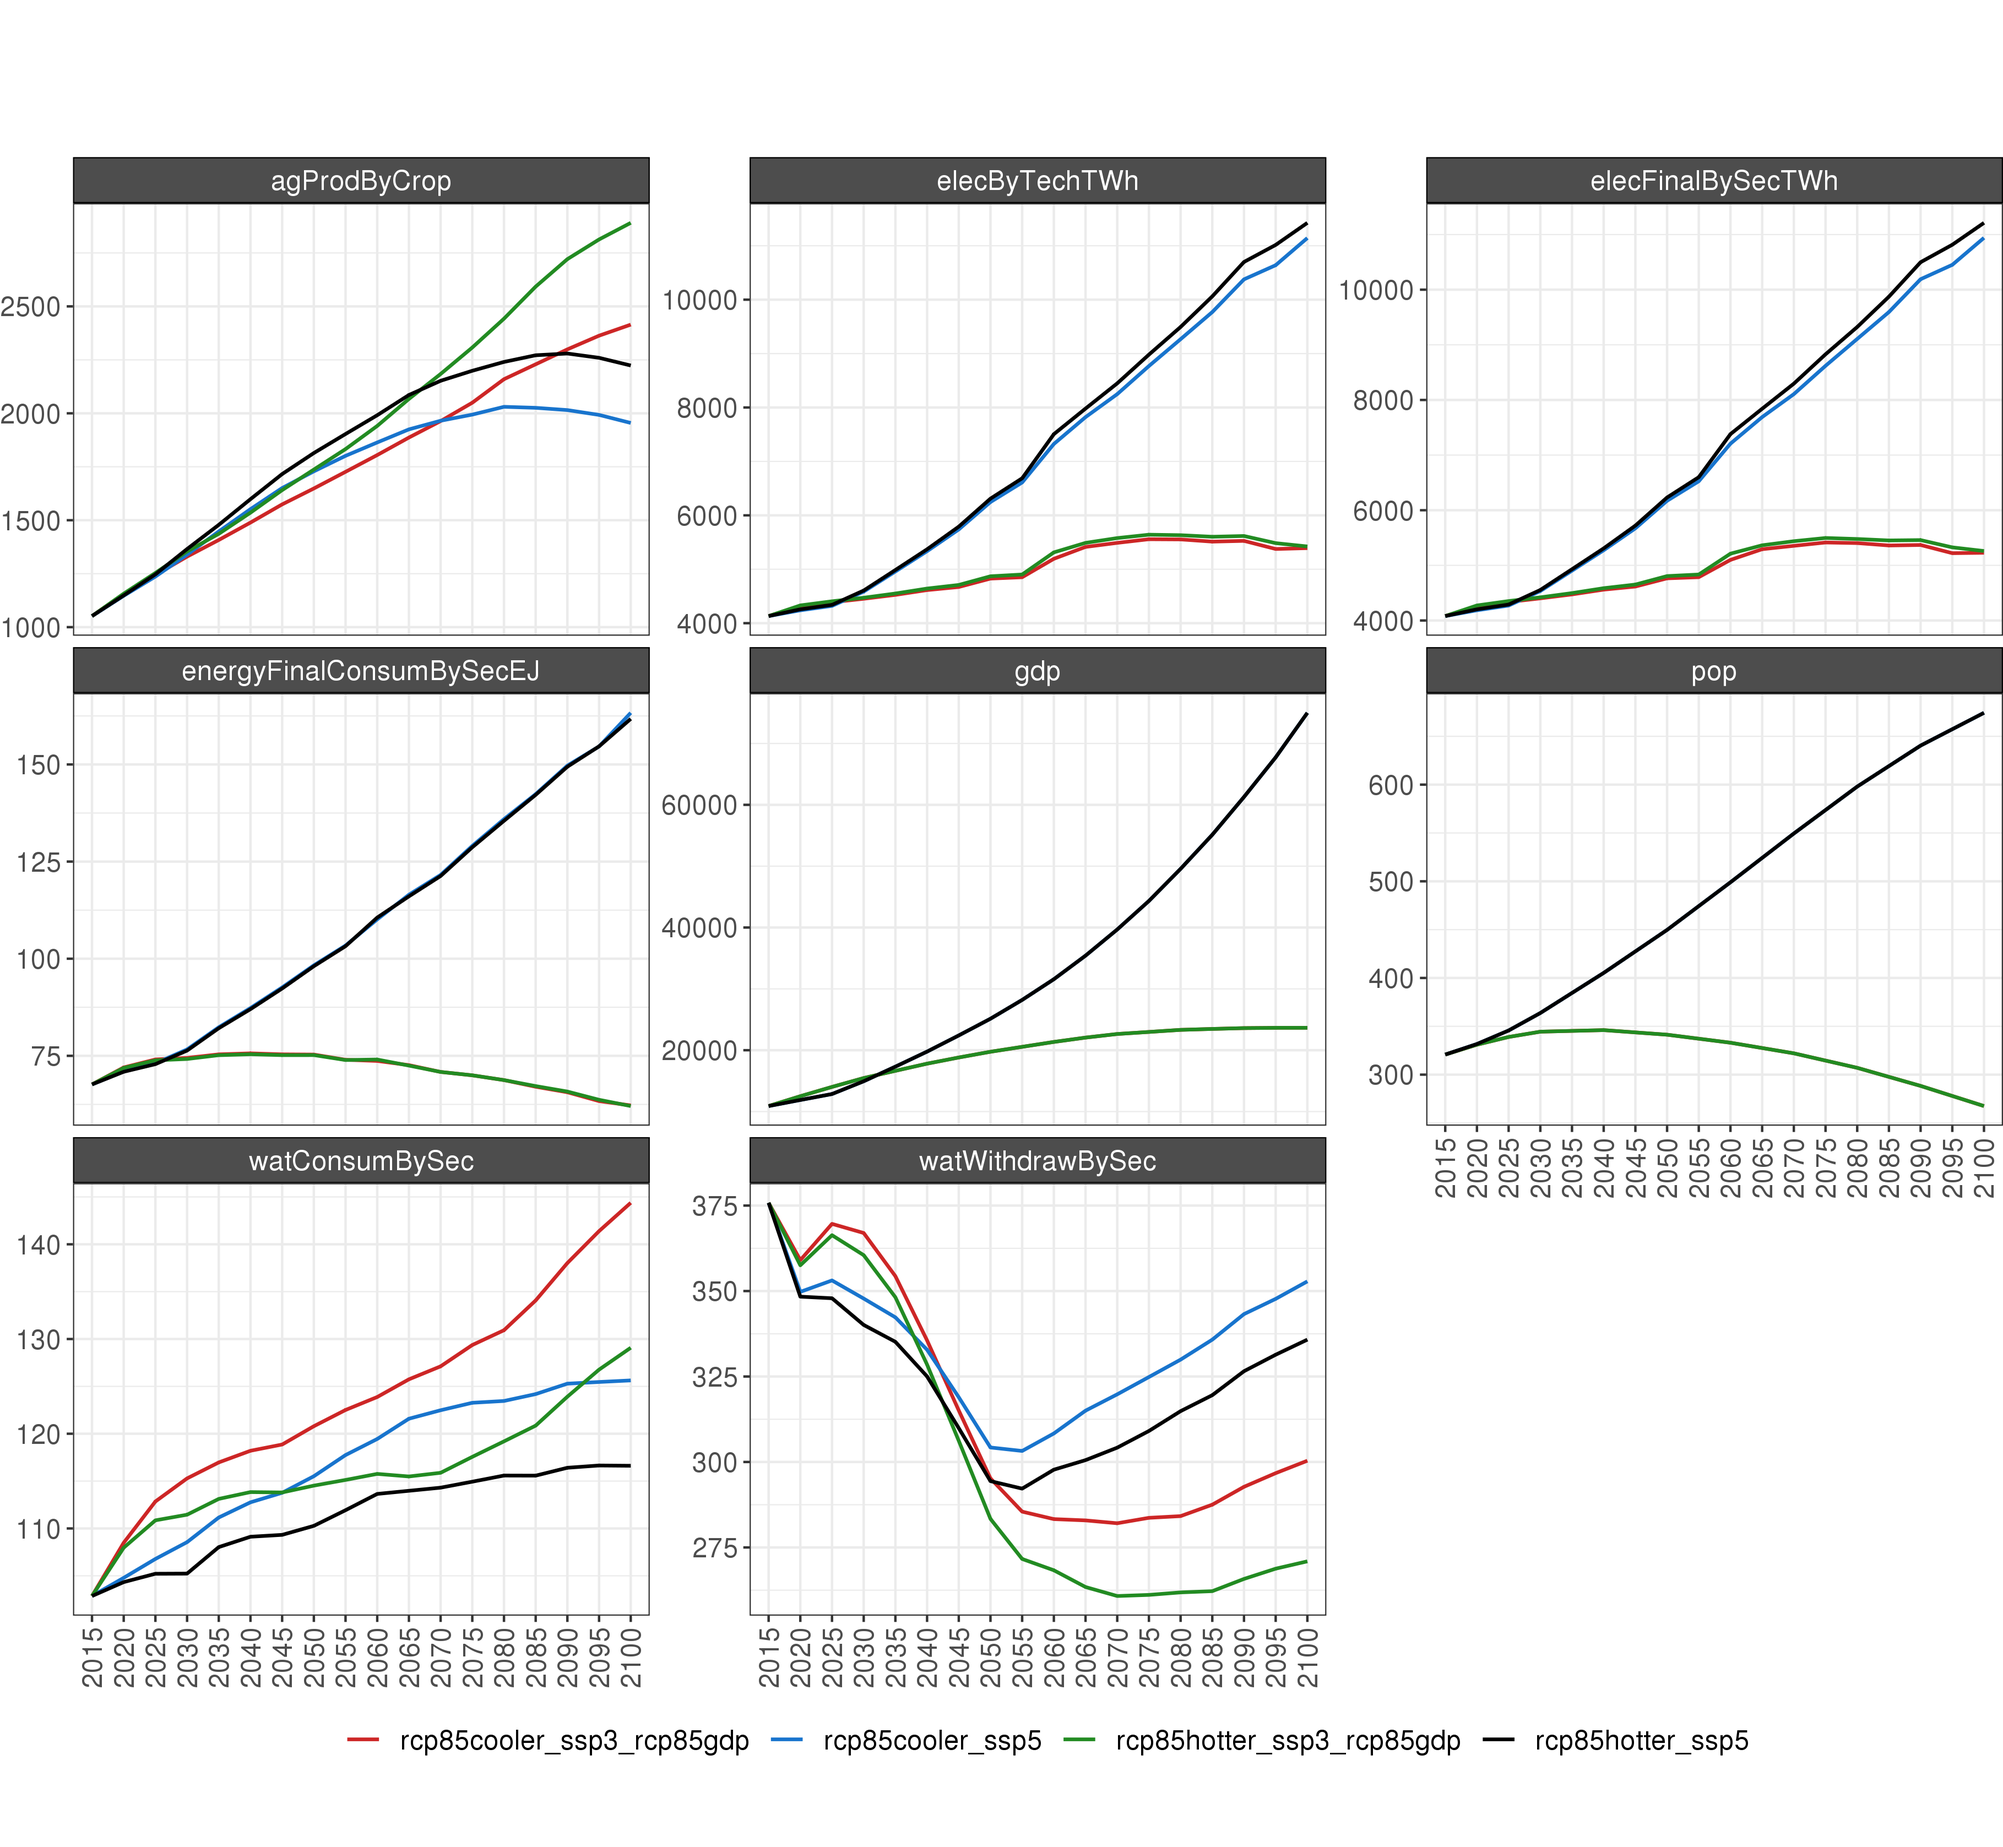
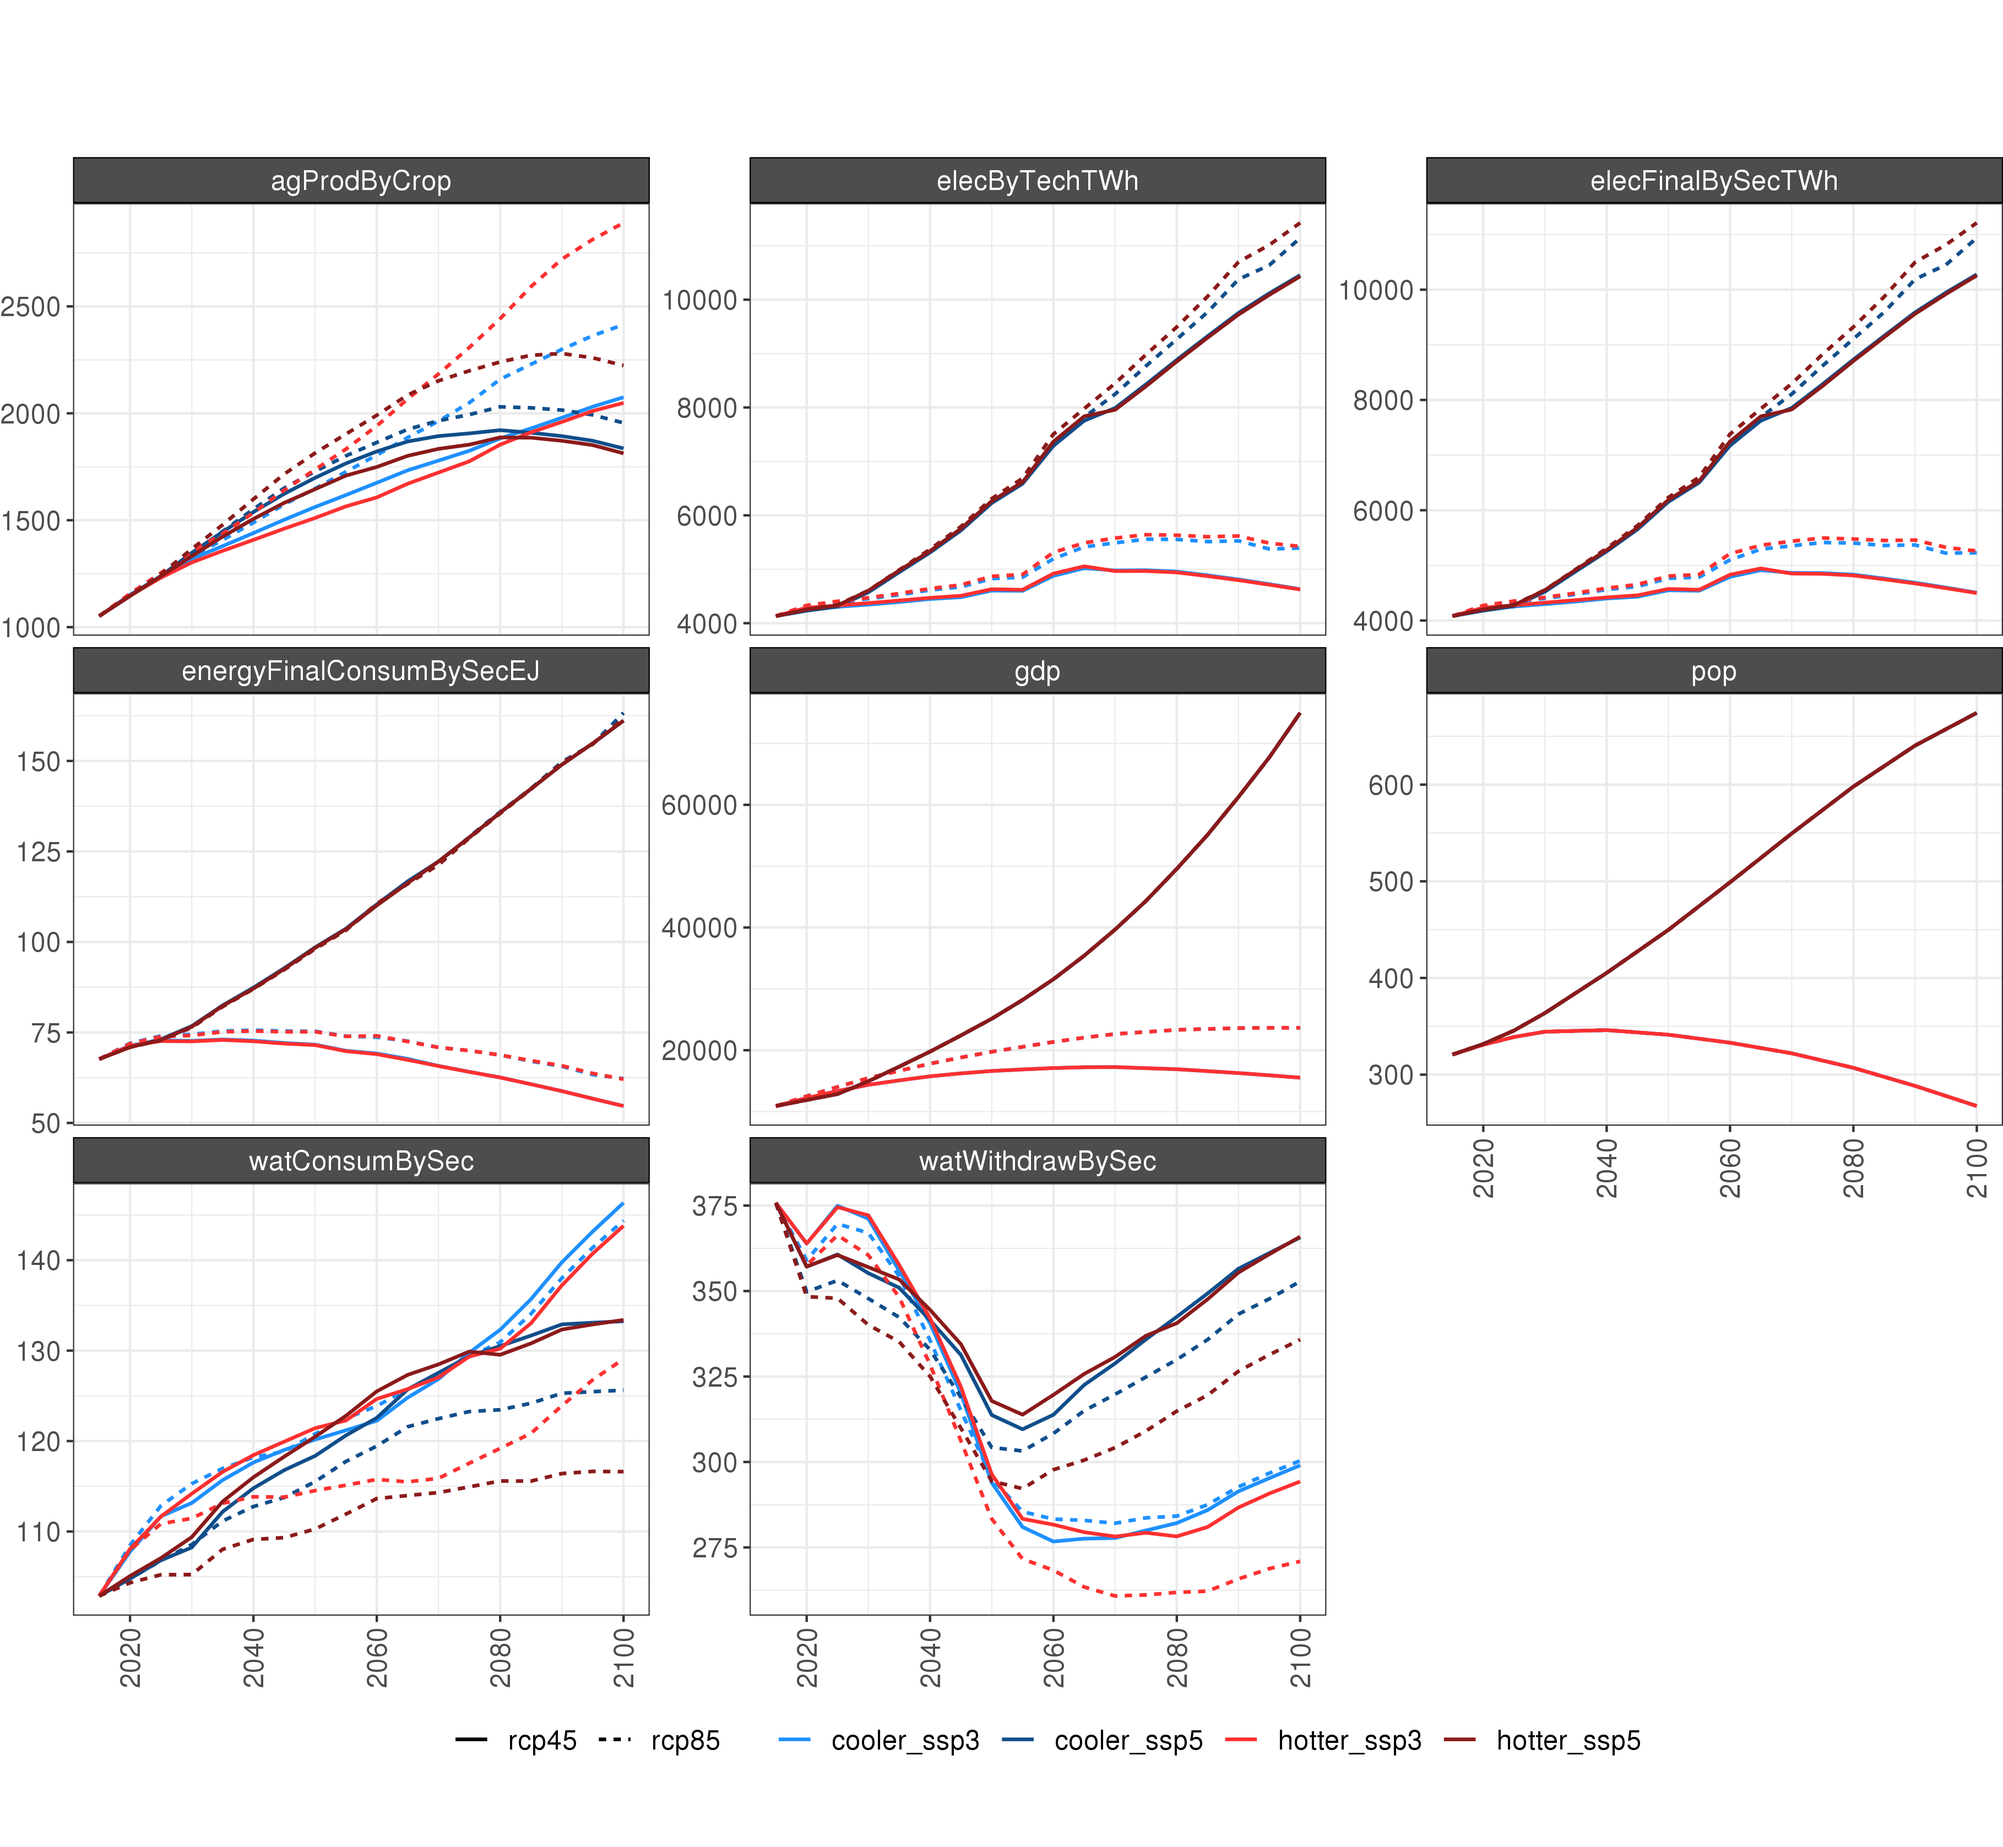
update figures with rcp45

diff --git a/webpage/_site/metarepo.html b/webpage/_site/metarepo.html
@@ -922,9 +922,9 @@ class="uri">https://github.com/JGCRI/gcamextractor</a>
 <h2>Summary</h2>
 <p><br></p>
 <div class="figure" style="text-align: center">
-<img src="images/chart_param_all_summary_im3.png" alt="**Comparison of GCAM outputs for 4 climate and socioeconomic scenarios. **" width="150%" />
+<img src="images/chart_param_all_summary_im3.png" alt="**Comparison of GCAM outputs for 8 climate and socioeconomic scenarios. **" width="150%" />
 <p class="caption">
-<strong>Comparison of GCAM outputs for 4 climate and socioeconomic
+<strong>Comparison of GCAM outputs for 8 climate and socioeconomic
 scenarios. </strong>
 </p>
 </div>
@@ -1023,17 +1023,17 @@ SSP5).</strong>
 <h3>Charts</h3>
 <p><br></p>
 <div class="figure" style="text-align: center">
-<img src="images/chart_class_diff_absolute_water_im3.png" alt="**Comparison of GCAM water outputs for 4 climate and socioeconomic scenarios (absolute difference). **" width="200%" />
+<img src="images/chart_class_diff_absolute_water_im3.png" alt="**Comparison of GCAM water outputs for 8 climate and socioeconomic scenarios (absolute difference). **" width="200%" />
 <p class="caption">
-<strong>Comparison of GCAM water outputs for 4 climate and socioeconomic
+<strong>Comparison of GCAM water outputs for 8 climate and socioeconomic
 scenarios (absolute difference). </strong>
 </p>
 </div>
 <p><br></p>
 <div class="figure" style="text-align: center">
-<img src="images/chart_class_diff_percent_water_im3.png" alt="**Comparison of GCAM water outputs for 4 climate and socioeconomic scenarios (percent difference). **" width="200%" />
+<img src="images/chart_class_diff_percent_water_im3.png" alt="**Comparison of GCAM water outputs for 8 climate and socioeconomic scenarios (percent difference). **" width="200%" />
 <p class="caption">
-<strong>Comparison of GCAM water outputs for 4 climate and socioeconomic
+<strong>Comparison of GCAM water outputs for 8 climate and socioeconomic
 scenarios (percent difference). </strong>
 </p>
 </div>
@@ -1141,17 +1141,17 @@ SSP5).</strong>
 <h3>Charts</h3>
 <p><br></p>
 <div class="figure" style="text-align: center">
-<img src="images/chart_class_diff_absolute_energy_im3.png" alt="**Comparison of GCAM energy outputs for 4 climate and socioeconomic scenarios (absolute difference). **" width="200%" />
+<img src="images/chart_class_diff_absolute_energy_im3.png" alt="**Comparison of GCAM energy outputs for 8 climate and socioeconomic scenarios (absolute difference). **" width="200%" />
 <p class="caption">
-<strong>Comparison of GCAM energy outputs for 4 climate and
+<strong>Comparison of GCAM energy outputs for 8 climate and
 socioeconomic scenarios (absolute difference). </strong>
 </p>
 </div>
 <p><br></p>
 <div class="figure" style="text-align: center">
-<img src="images/chart_class_diff_percent_energy_im3.png" alt="**Comparison of GCAM energy outputs for 4 climate and socioeconomic scenarios (percent difference). **" width="200%" />
+<img src="images/chart_class_diff_percent_energy_im3.png" alt="**Comparison of GCAM energy outputs for 8 climate and socioeconomic scenarios (percent difference). **" width="200%" />
 <p class="caption">
-<strong>Comparison of GCAM energy outputs for 4 climate and
+<strong>Comparison of GCAM energy outputs for 8 climate and
 socioeconomic scenarios (percent difference). </strong>
 </p>
 </div>
@@ -1195,17 +1195,17 @@ SSP5).</strong>
 <h3>Charts</h3>
 <p><br></p>
 <div class="figure" style="text-align: center">
-<img src="images/chart_class_diff_absolute_electricity_im3.png" alt="**Comparison of GCAM electricity outputs for 4 climate and socioeconomic scenarios (absolute difference). **" width="200%" />
+<img src="images/chart_class_diff_absolute_electricity_im3.png" alt="**Comparison of GCAM electricity outputs for 8 climate and socioeconomic scenarios (absolute difference). **" width="200%" />
 <p class="caption">
-<strong>Comparison of GCAM electricity outputs for 4 climate and
+<strong>Comparison of GCAM electricity outputs for 8 climate and
 socioeconomic scenarios (absolute difference). </strong>
 </p>
 </div>
 <p><br></p>
 <div class="figure" style="text-align: center">
-<img src="images/chart_class_diff_percent_electricity_im3.png" alt="**Comparison of GCAM electricity outputs for 4 climate and socioeconomic scenarios (percent difference). **" width="200%" />
+<img src="images/chart_class_diff_percent_electricity_im3.png" alt="**Comparison of GCAM electricity outputs for 8 climate and socioeconomic scenarios (percent difference). **" width="200%" />
 <p class="caption">
-<strong>Comparison of GCAM electricity outputs for 4 climate and
+<strong>Comparison of GCAM electricity outputs for 8 climate and
 socioeconomic scenarios (percent difference). </strong>
 </p>
 </div>
@@ -1215,9 +1215,9 @@ socioeconomic scenarios (percent difference). </strong>
 <h3>Lines</h3>
 <p><br></p>
 <div class="figure" style="text-align: center">
-<img src="images/Superpeak%20Electricity%20Load%20(GW).png" alt="**Comparison of State-level Superpeak Electricity Load (GW) for 4 climate and socioeconomic scenarios. **" width="200%" />
+<img src="images/chart_Superpeak%20Electricity%20Load%20(GW).png" alt="**Comparison of State-level Superpeak Electricity Load (GW) for 8 climate and socioeconomic scenarios. **" width="200%" />
 <p class="caption">
-<strong>Comparison of State-level Superpeak Electricity Load (GW) for 4
+<strong>Comparison of State-level Superpeak Electricity Load (GW) for 8
 climate and socioeconomic scenarios. </strong>
 </p>
 </div>
@@ -1261,17 +1261,17 @@ SSP5).</strong>
 <h3>Charts</h3>
 <p><br></p>
 <div class="figure" style="text-align: center">
-<img src="images/chart_class_diff_absolute_aglu_im3.png" alt="**Comparison of GCAM AGLU outputs for 4 climate and socioeconomic scenarios (absolute difference). **" width="200%" />
+<img src="images/chart_class_diff_absolute_aglu_im3.png" alt="**Comparison of GCAM AGLU outputs for 8 climate and socioeconomic scenarios (absolute difference). **" width="200%" />
 <p class="caption">
-<strong>Comparison of GCAM AGLU outputs for 4 climate and socioeconomic
+<strong>Comparison of GCAM AGLU outputs for 8 climate and socioeconomic
 scenarios (absolute difference). </strong>
 </p>
 </div>
 <p><br></p>
 <div class="figure" style="text-align: center">
-<img src="images/chart_class_diff_percent_aglu_im3.png" alt="**Comparison of GCAM AGLU outputs for 4 climate and socioeconomic scenarios (percent difference). **" width="200%" />
+<img src="images/chart_class_diff_percent_aglu_im3.png" alt="**Comparison of GCAM AGLU outputs for 8 climate and socioeconomic scenarios (percent difference). **" width="200%" />
 <p class="caption">
-<strong>Comparison of GCAM AGLU outputs for 4 climate and socioeconomic
+<strong>Comparison of GCAM AGLU outputs for 8 climate and socioeconomic
 scenarios (percent difference). </strong>
 </p>
 </div>
@@ -1312,17 +1312,17 @@ SSP5).</strong>
 <h2>Emissions</h2>
 <p><br></p>
 <div class="figure" style="text-align: center">
-<img src="images/compareCO2GlobalCumRCP_im3.png" alt="**Comparison of global cumulative CO2 emissions for 4 climate and socioeconomic scenarios. **" width="200%" />
+<img src="images/compareCO2GlobalCumRCP_im3.png" alt="**Comparison of global cumulative CO2 emissions for 8 climate and socioeconomic scenarios. **" width="200%" />
 <p class="caption">
-<strong>Comparison of global cumulative CO2 emissions for 4 climate and
+<strong>Comparison of global cumulative CO2 emissions for 8 climate and
 socioeconomic scenarios. </strong>
 </p>
 </div>
 <p><br></p>
 <div class="figure" style="text-align: center">
-<img src="images/compareCO2USA_im3.png" alt="**Comparison of USA CO2 emissions for 4 climate and socioeconomic scenarios. **" width="200%" />
+<img src="images/compareCO2USA_im3.png" alt="**Comparison of USA CO2 emissions for 8 climate and socioeconomic scenarios. **" width="200%" />
 <p class="caption">
-<strong>Comparison of USA CO2 emissions for 4 climate and socioeconomic
+<strong>Comparison of USA CO2 emissions for 8 climate and socioeconomic
 scenarios. </strong>
 </p>
 </div>
